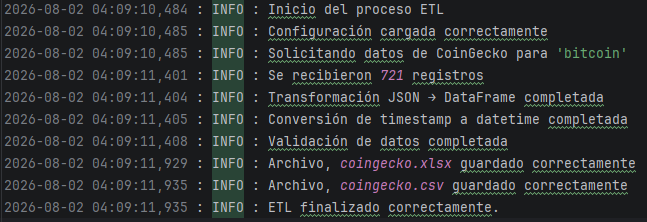
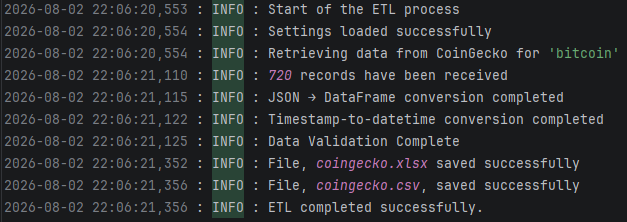
Translate README to English

Changed region(s): [[0.0, 0.0, 1.0, 1.0]]

diff --git a/src/main.py b/src/main.py
@@ -1,6 +1,5 @@
 import logging
 import json
-from src.load import guardar_excel
 from src.transform import transformar_datos
 from src.validate import validar_datos
 from src.extract import obtener_datos
@@ -11,19 +10,19 @@ logging.basicConfig(filename="logs/crypto_etl.log",
 
 def main():
     try:
-        logging.info("Inicio del proceso ETL")
+        logging.info("Start of the ETL process")
         with  open("config.json", "r") as f:
             config = json.load(f)
-            logging.info("Configuración cargada correctamente")
+            logging.info("Settings loaded successfully")
             data = obtener_datos(config)
             df = transformar_datos(data)
             df = validar_datos(df)
             from src.load import guardar_excel,guardar_csv
             guardar_excel(df)
             guardar_csv(df)
-            logging.info("ETL finalizado correctamente.")
-    except Exception as e:
-        logging.exception("Se produjo un error durante la ejecución del ETL.")
+            logging.info("ETL completed successfully.")
+    except Exception :
+        logging.exception("An error occurred during the ETL run.")
 
 
 

diff --git a/src/validate.py b/src/validate.py
@@ -1,12 +1,12 @@
 import logging
 def validar_datos(df):
     if df.empty:
-        raise ValueError("Datos no encontrado")
+        raise ValueError("Data not found")
     if df.isnull().values.any():
-        logging.warning("Se encontraron valores nulos")
-        raise ValueError("✖ se encontraron valores nulos")
+        logging.warning("Zero values were found")
+        raise ValueError("✖ Zero values were found")
 
-    logging.info("Validación de datos completada")
+    logging.info("Data Validation Complete")
     return df
 
 

diff --git a/src/extract.py b/src/extract.py
@@ -9,10 +9,10 @@ def obtener_datos(config):
         "days": config["days"],
     }
     url = f'https://api.coingecko.com/api/v3/coins/{coin}/market_chart'
-    logging.info(f"Solicitando datos de CoinGecko para '{coin}'")
+    logging.info(f"Retrieving data from CoinGecko for '{coin}'")
     response = requests.get(url, params=parametros)
     data = response.json()
-    logging.info(f"Se recibieron {len(data['prices'])} registros")
+    logging.info(f"{len(data['prices'])} records have been received")
     return response.json()
 
 

diff --git a/src/transform.py b/src/transform.py
@@ -4,9 +4,9 @@ import pandas as pd
 
 def transformar_datos(data):
     df = pd.DataFrame(data['prices'], columns=["timestamp",'price'])
-    logging.info("Transformación JSON → DataFrame completada")
+    logging.info("JSON → DataFrame conversion completed")
     df["timestamp"] = pd.to_datetime(df["timestamp"], unit="ms")
-    logging.info("Conversión de timestamp a datetime completada")
+    logging.info("Timestamp-to-datetime conversion completed")
     return df
 
 

diff --git a/src/load.py b/src/load.py
@@ -3,11 +3,11 @@ import logging
 
 def guardar_csv(df, filename = "coingecko.csv"):
     df.to_csv(filename, index=False)
-    logging.info(f"Archivo, {filename} guardado correctamente")
+    logging.info(f"File, {filename}, saved successfully")
 
 
 def guardar_excel(df, filename = "coingecko.xlsx"):
     df.to_excel(filename, index=False)
-    logging.info(f"Archivo, {filename} guardado correctamente")
+    logging.info(f"File, {filename} saved successfully")
 
 

diff --git a/README.md b/README.md
@@ -1,6 +1,6 @@
 # 🚀 Crypto-ETL Pipeline
 
-> **Pipeline ETL modular en Python para la extracción, transformación, validación y carga de datos cripto, generando archivos CSV y Excel listos para análisis.**
+> **Modular ETL pipeline in Python for extracting, transforming, validating, and loading cryptocurrency data, generating CSV and Excel files ready for analysis.**
 
 ![Python](https://img.shields.io/badge/Python-3.x-blue?logo=python)
 ![ETL](https://img.shields.io/badge/Type-ETL%20Pipeline-orange)
@@ -9,105 +9,110 @@
 
 ---
 
-## 📖 Descripción
+## 📖 Description
 
-Crypto-ETL es un pipeline ETL modular que consume datos desde una API pública, los transforma, valida y exporta en archivos CSV y Excel listos para su análisis. La arquitectura separa cada etapa del proceso (Extract, Transform, Validate y Load), utiliza configuración externa mediante `config.json`, registra la ejecución con un sistema de logging y maneja errores de forma centralizada para facilitar su mantenimiento y escalabilidad.
+Crypto-ETL is a modular ETL pipeline that consumes data from a public API, transforms, validates, and exports it to CSV and Excel files ready for analysis. The architecture separates each stage of the process (Extract, Transform, Validate, and Load), uses external configuration via `config.json`, logs execution with an integrated logging system, and handles errors in a centralized manner to facilitate maintenance and scalability.
 
 ---
 ## 📊 ETL Output
-El pipeline genera automáticamente un archivo Excel listo para análisis.
+The pipeline automatically generates an Excel file ready for analysis.
 
 ![Excel Output](assets/screenshots/output-excel.png)
 
-*Ejemplo del archivo generado por el proceso ETL.*
+*Example of the file generated by the ETL process.*
 
 ---
-## ⚡ Características Implementadas
+## ⚡ Features
 
-- ✅ **Arquitectura Modular:** Separa las etapas Extract, Transform, Validate y Load para facilitar el mantenimiento y la escalabilidad.
-- ✅ **Configuración externa mediante config.json:** Permite modificar parámetros del ETL sin cambiar el código fuente.
-- ✅ **Validación automática de datos:** Verifica que los datos no estén vacíos y detecta valores nulos antes de la exportación.
-- ✅ **Manejo centralizado de errores:** Captura excepciones y registra información útil para facilitar el diagnóstico.
-- ✅ **Sistema de logging integrado:** Registra cada etapa del ETL para facilitar el seguimiento y diagnóstico.
-- ✅ **Exportación en múltiples formatos (CSV y Excel):** Genera archivos CSV y Excel listos para su análisis.
+✅ **Modular Architecture** (Extract, Transform, Validate, Load) — strict separation of responsibilities  
+✅ **External Configuration** via `config.json` — zero *hardcoding*  
+✅ **Automatic Data Validation** — verifies integrity, types, and ranges before exporting  
+✅ **Centralized Error Handling** — robust exception capture and reporting system  
+✅ **Integrated Logging System** — complete execution traceability  
+✅ **Multi-Format Export** (CSV and Excel) — ready for immediate analysis
 
 ---
 
-## 🛠 Tecnologías Utilizadas
+## 🛠 Technologies
 
-- **Lenguaje:** Python 3.x
-- **Consumo de API:** Requests
-- **Manipulación de Datos:** Pandas
-- **Exportación:** CSV (Pandas) y Excel (OpenPyXL)
-- **Configuración:** Archivo `config.json`
-- **Logging:** Módulo `logging` de Python
+- **Language:** Python 3.x
+- **API Client:** Requests
+- **Data Processing:** Pandas
+- **Export:** CSV (Pandas), Excel (OpenPyXL)
+- **Configuration:** config.json
+- **Logging:** Python logging module
 
 ---
 ## 📋 Requirements
 
-- Python 3.14.2
+- Python 3.14+
 - Internet connection
-- The project includes a preconfigured `config.json` file, so no additional configuration is required.
+- The project includes a preconfigured `config.json` file. Optionally, you can edit it to customize.
 ---
 
-## 📂 Estructura del Proyecto
+## 📂 Project Structure
 ```text
 crypto-etl/
-│
-├── README.md               # Documentación del proyecto
-├── requirements.txt        # Dependencias
-├── config.json             # Configuración del ETL
-│
-├── src/                    # Código fuente
-│   ├── main.py             # Orquestador del pipeline
-│   ├── extract.py          # Extracción desde la API
-│   ├── transform.py        # Transformación de datos
-│   ├── validate.py         # Validación de datos
-│   └── load.py             # Exportación a CSV y Excel
-│
+├── assets/
+│   │── screenshots/      # Project screenshots
+├── src/                  # Source code
+│   ├── main.py           # Pipeline orchestrator
+│   ├── extract.py        # Stage 1: API extraction
+│   ├── transform.py      # Stage 2: Data transformation
+│   ├── validate.py       # Stage 3: Data validation
+│   └── load.py           # Stage 4: CSV and Excel export
 ├── data/
-│   ├── raw/                # Datos sin procesar
-│   └── processed/          # Archivos generados por el ETL
-│
-└── logs/                   # Registros de ejecución
+│   ├── raw/              # Raw data (if needed)
+│   └── processed/        # Files generated by the ETL
+├── logs/                 # Execution logs
+├── config.json           # External pipeline configuration
+├── requirements.txt      # Project dependencies
+└── README.md             # Project documentation
 
 ````
 ---
-# 🚀Cómo Ejecutar
+# 🚀How to Run
 Follow the steps below to run the ETL pipeline locally:
 
-## 1. Clonar el repositorio
-git clone https://github.com/MatiasSegovia/crypto-etl
+## 1. Clone the repository
+````
+git clone https://github.com/MatiasSegovia/crypto-etl.git
 cd crypto-etl
+````
 
-## 2. (Opcional) Crear entorno virtual
+## 2. (Optional) Create a virtual environment
 python -m venv venv
-source venv/bin/activate  # En Windows: venv\Scripts\activate
+### On Windows:
+venv\Scripts\activate
+### On Mac/Linux:
+source venv/bin/activate
 
-## 3. Instalar dependencias
+## 3. Install dependencies
+````bash
 pip install -r requirements.txt
+````
+## 4. Configure parameters
+Edit config.json to define the cryptocurrency, reference currency, and number of days you want to query.
 
-## 4. Configurar parámetros
-## Edita config.json para definir la criptomoneda, la moneda de referencia y la cantidad de días que deseas consultar.)
-
-## 5. Ejecutar el pipeline
+## 5. Run the pipeline
+````
 python src/main.py
-
+````
 ---
 ## 📸 Pipeline Execution
 
-Al ejecutar el pipeline, cada etapa queda registrada mediante un sistema de logging para facilitar el monitoreo y la depuración.
+When executing the pipeline, each stage is logged through a logging system to facilitate monitoring and debugging.
 
 ![Pipeline logs](assets/screenshots/pipeline-logs.png)
 
-*Ejemplo real de una ejecución exitosa del pipeline.*
+*Real example of a successful pipeline execution.*
 
 ---
 
 
-# 📊 Resultado del ETL
+# 📂 Generated Output
 
-Al finalizar la ejecución, el pipeline genera automáticamente:
+The pipeline automatically generates an Excel file ready for analysis.
 
 ````
 data/
@@ -117,13 +122,13 @@ data/
 ````
 # 🚀 Future Improvements
 
-Este proyecto continuará evolucionando incorporando nuevas herramientas y prácticas utilizadas en entornos profesionales de Data Engineering.
+This project will continue evolving by incorporating new tools and practices used in professional Data Engineering environments:
 
-- 📊 Registro de métricas del pipeline: tiempo de ejecución y cantidad de registros procesados por cada etapa.
-- 🗄 **Integración con PostgreSQL:** Exportar los datos directamente a una base de datos relacional.
-- ⏰ **Orquestación con Apache Airflow:** Automatizar la ejecución y planificación del pipeline.
-- 🐳 **Dockerización:** Contenerizar el proyecto para facilitar su despliegue en cualquier entorno.
-- 🧪 **Pruebas automatizadas con pytest:** Incorporar tests unitarios para cada módulo del ETL.
-- 🔔 **Sistema de alertas:** Enviar notificaciones por Slack o correo electrónico ante errores del pipeline.
-- 📈 **Dashboard de monitoreo:** Visualizar métricas de ejecución y estado del ETL.
-- 🔌 **Soporte para múltiples APIs:** Integrar proveedores como CoinGecko, Binance y Kraken en un mismo pipeline.
+- 📊 **Pipeline metrics:** Execution time and number of records processed per stage
+- 🗄 **PostgreSQL integration:** Export data directly to a relational database
+- ⏰ **Apache Airflow orchestration:** Automate pipeline execution and scheduling
+- 🐳 **Dockerization:** Containerize the project for easy deployment in any environment
+- 🧪 **Automated testing with pytest:** Incorporate unit tests for each ETL module
+- 🔔 **Alert system:** Send notifications via Slack or email when pipeline errors occur
+- 📈 **Monitoring dashboard:** Visualize execution metrics and pipeline status
+- 🔌 **Multi-API support:** Integrate providers like CoinGecko, Binance, and Kraken in a single pipeline
